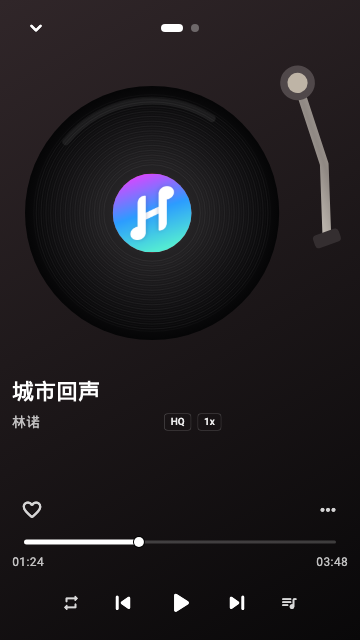
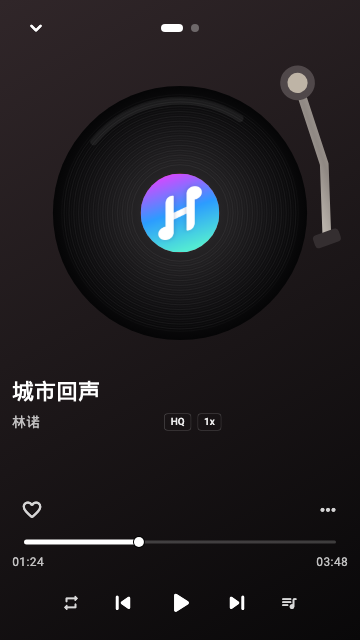
fix(player): 修复黑胶唱片居中并更新预览

diff --git a/test/features/player/presentation/styles/vinyl_player_style_test.dart b/test/features/player/presentation/styles/vinyl_player_style_test.dart
@@ -8,6 +8,25 @@ import 'package:he_music_flutter/features/player/presentation/providers/player_p
 import 'package:he_music_flutter/features/player/presentation/styles/vinyl_player_stage.dart';
 
 void main() {
+  testWidgets('vinyl record is centered in the player stage', (tester) async {
+    final container = ProviderContainer(
+      overrides: [
+        playerControllerProvider.overrideWith(_VinylTestController.new),
+      ],
+    );
+    addTearDown(container.dispose);
+
+    await tester.pumpWidget(_buildStage(container, track: _trackA));
+
+    final stageCenter = tester.getCenter(
+      find.byKey(const ValueKey<String>('vinyl-player-stage')),
+    );
+    final recordCenter = tester.getCenter(
+      find.byKey(const ValueKey<String>('vinyl-record-rotation')),
+    );
+    expect(recordCenter, stageCenter);
+  });
+
   testWidgets('vinyl rotation pauses and resumes from the current angle', (
     tester,
   ) async {

diff --git a/lib/features/player/presentation/styles/vinyl_player_stage.dart b/lib/features/player/presentation/styles/vinyl_player_stage.dart
@@ -90,7 +90,7 @@ class _VinylPlayerStageState extends ConsumerState<VinylPlayerStage>
               clipBehavior: Clip.none,
               children: <Widget>[
                 Align(
-                  alignment: Alignment.centerLeft,
+                  alignment: Alignment.center,
                   child: RotationTransition(
                     key: const ValueKey<String>('vinyl-record-rotation'),
                     turns: _rotationController,

diff --git a/assets/player_styles/artist_photo/LICENSES.md b/assets/player_styles/artist_photo/LICENSES.md
@@ -24,9 +24,9 @@
 
[6 lines of base64/hex data omitted]
 - Technical inspection: all five previews render readable fixed Chinese text, metadata badges, playback time and controls without blank regions or overflow; classic, fluid, vinyl, cassette and artist-photo subjects are visually distinct.
-- Replacement inspection: regenerated on 2026-07-27; only the artist-photo mobile preview and desktop golden changed, while the other four style previews and both artist-photo fallback goldens remained byte-identical.
+- Replacement inspection: regenerated on 2026-07-27; only the vinyl mobile preview and desktop golden changed, while the other four style previews and both artist-photo fallback goldens remained byte-identical.
 - Review status: automated golden and technical inspection completed; final product visual approval completed by the user on 2026-07-27.
